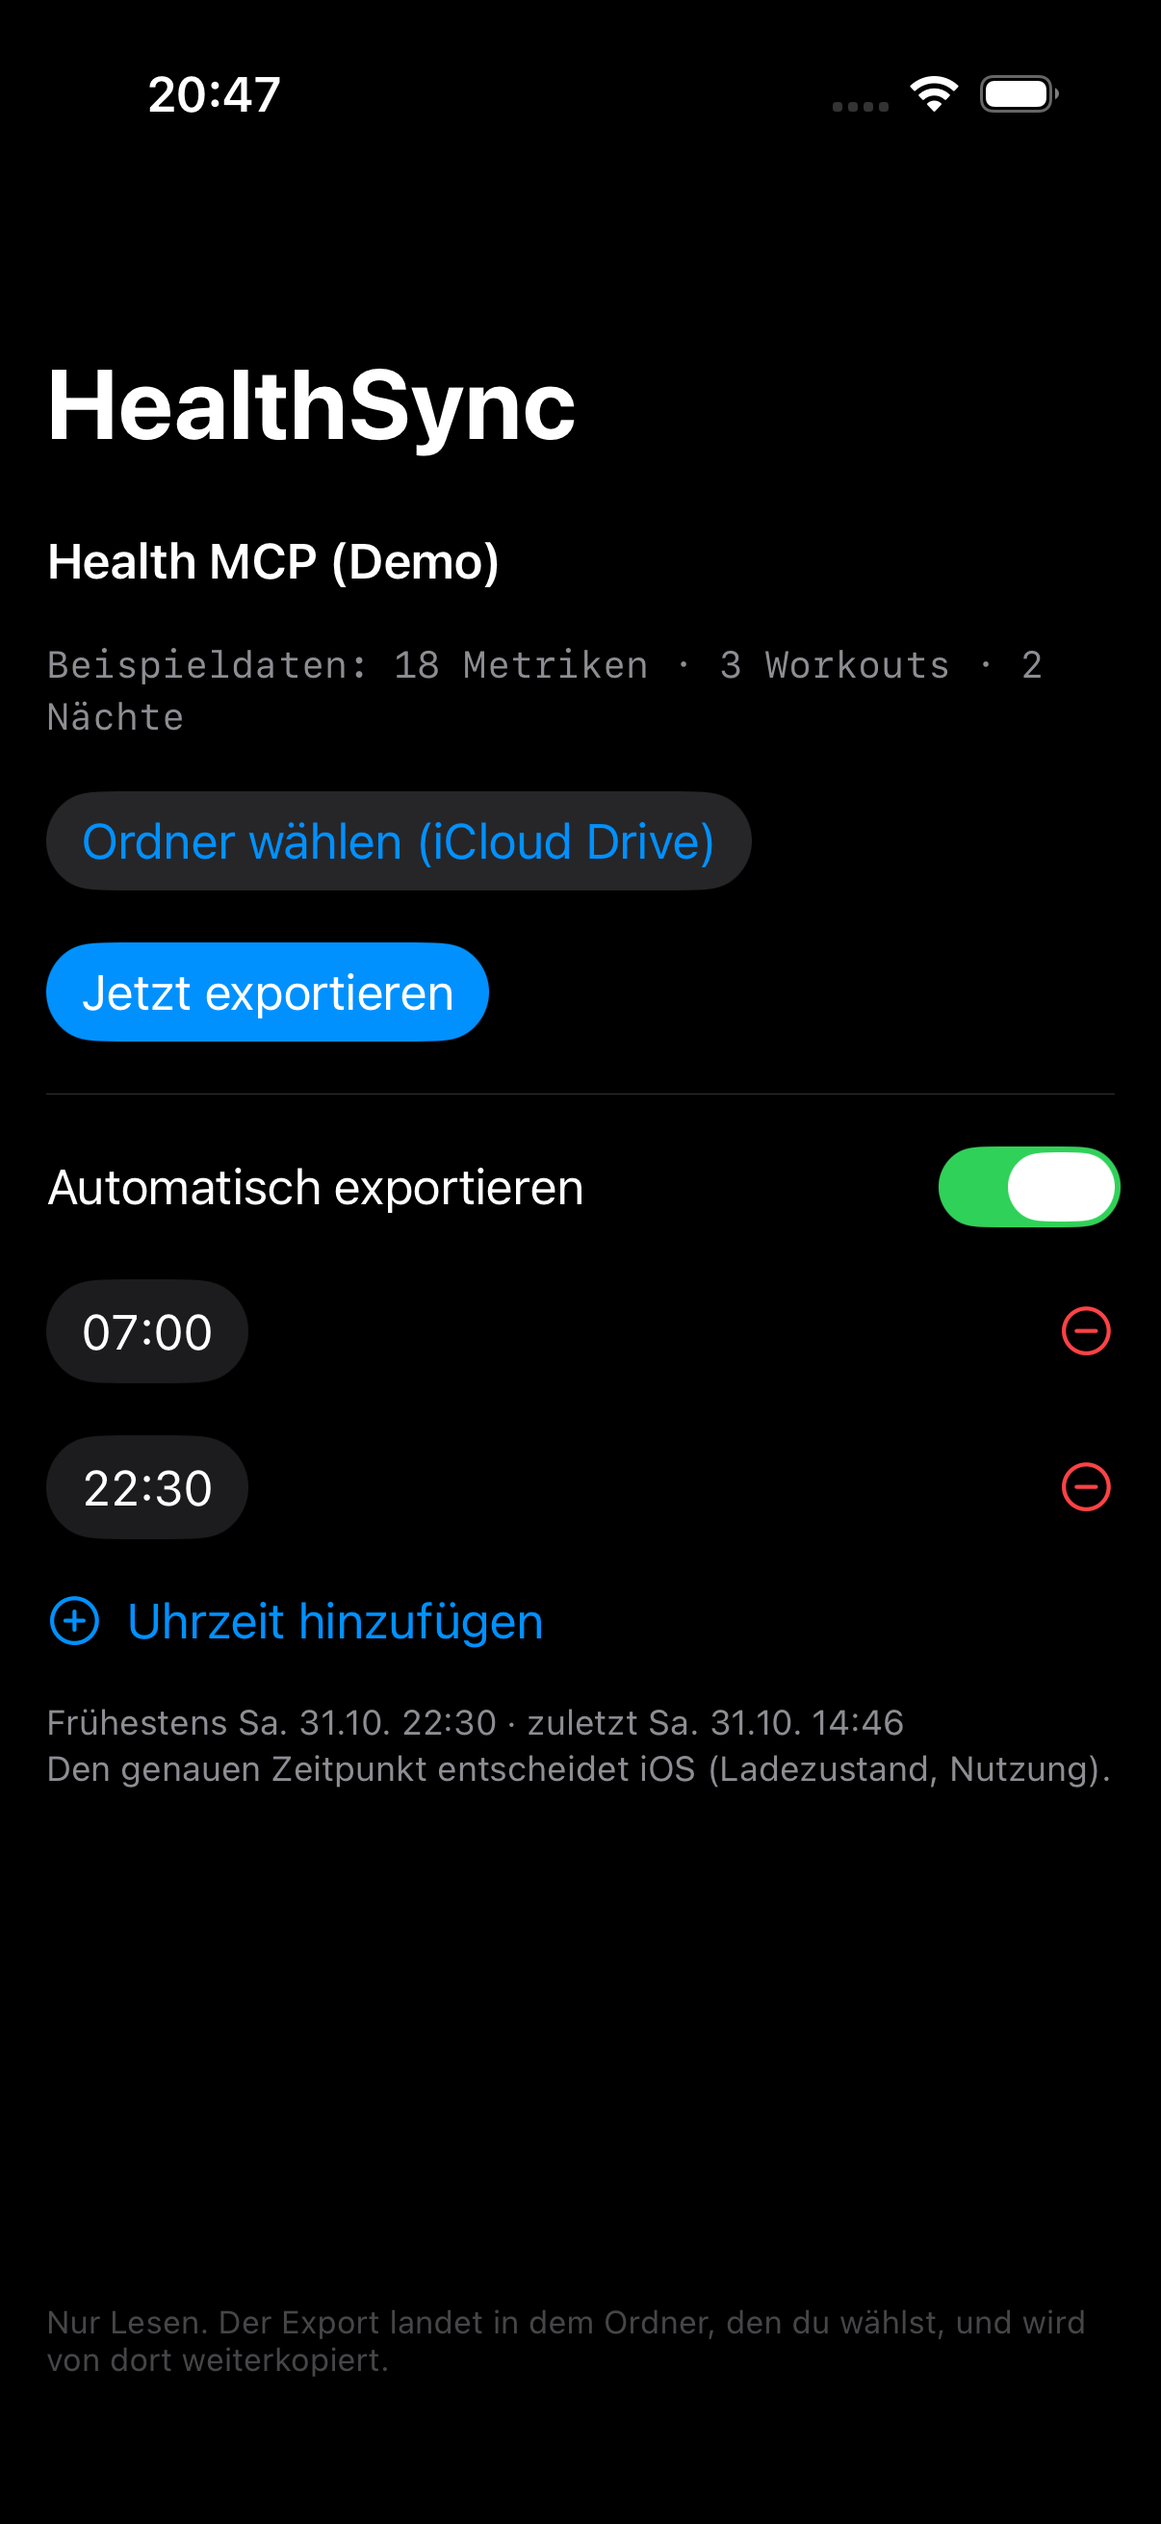
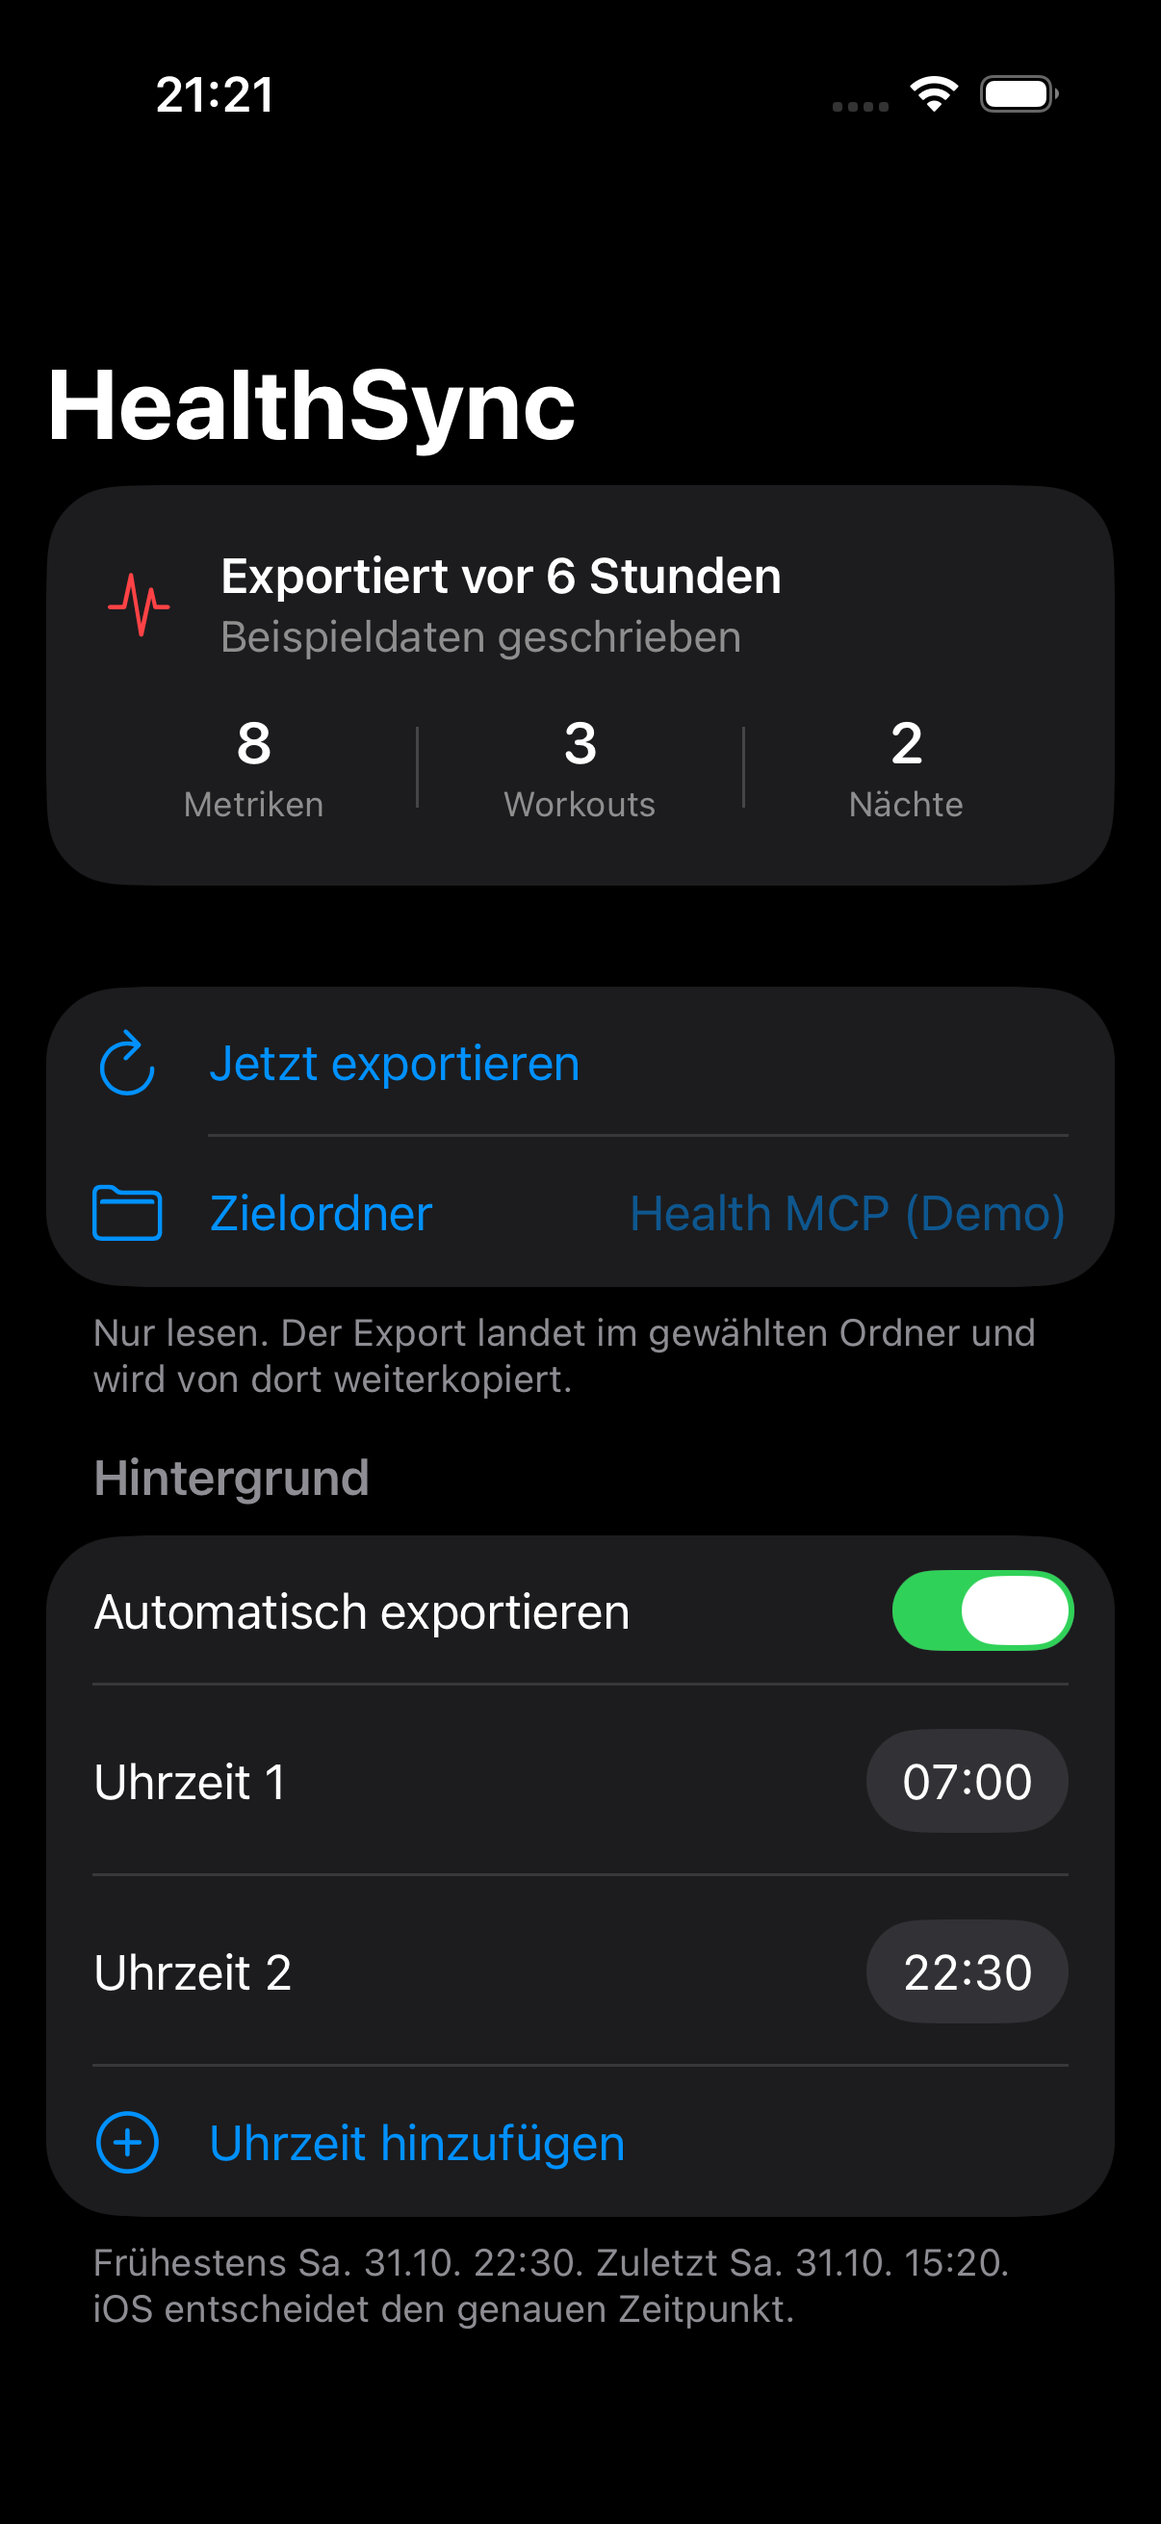
feat: rebuild the screen as a native grouped list
Status card with the counts of the last real export (metrics, workouts, nights),
actions in their own section, schedule rows numbered and swipe-to-delete, the
version comes from project.yml, and a CI job that builds and runs check-ste.py.

diff --git a/HealthSync/HealthSyncApp.swift b/HealthSync/HealthSyncApp.swift
@@ -54,6 +54,12 @@ enum ExportError: LocalizedError {
     }
 }
 
+struct ExportSummary {
+    let metrics: Int
+    let workouts: Int
+    let sessions: Int
+}
+
 struct Exporter {
     let store = HKHealthStore()
     let cal = Calendar.current
@@ -73,7 +79,8 @@ struct Exporter {
         try await store.requestAuthorization(toShare: [], read: readTypes)
     }
 
-    func run(into folder: URL) async throws {
+    @discardableResult
+    func run(into folder: URL) async throws -> ExportSummary {
         let start = cal.startOfDay(for: cal.date(byAdding: .day, value: -LOOKBACK_DAYS, to: Date())!)
         var metrics: [String: Any] = [:]
         for spec in SPECS {
@@ -108,6 +115,9 @@ struct Exporter {
         let workouts = try await workoutRows(from: start)
         UserDefaults.standard.set(Date(), forKey: Schedule.lastRunKey)
         try publish(metrics, workouts, sessions, into: folder)
+        return ExportSummary(metrics: metrics.count - 1,          // _meta is not a metric
+                             workouts: workouts.count,
+                             sessions: (sessions["sessions"] as? [[String: Any]])?.count ?? 0)
     }
 
     // Daily aggregate straight from HealthKit: no per-sample loop, so 2 years costs the same as 2 days.
@@ -424,7 +434,7 @@ extension ISO8601DateFormatter {
 extension Exporter {
     /// Writes a sample cache through the SAME publish() path the real export uses.
     /// Only exists so the writer can be tested where HealthKit cannot run (simulator).
-    func writeSampleCache(into folder: URL) throws {
+    func writeSampleCache(into folder: URL) throws -> ExportSummary {
         let day = { (offset: Int) -> String in
             let d = Calendar.current.date(byAdding: .day, value: -offset, to: Date())!
             return Self.dayKey(d)
@@ -435,20 +445,34 @@ extension Exporter {
         }
         let metrics: [String: Any] = [
             "step_count": series("count", true, [9123, 7455, 10233]),
+            "walking_running_distance": series("km", true, [6.4, 5.1, 7.8]),
+            "active_energy": series("kcal", true, [612, 388, 741]),
+            "heart_rate": series("count/min", false, [72, 68, 75]),
+            "resting_heart_rate": series("count/min", false, [54, 52, 55]),
             "heart_rate_variability": series("ms", false, [57.2, 61.4, 55.9]),
             "blood_oxygen_saturation": series("%", false, [0.97, 0.98, 0.96]),
-            "resting_heart_rate": series("count/min", false, [54, 52, 55]),
+            "vo2_max": series("mL/min/kg", false, [44.1, 44.3, 43.9]),
             "_meta": ["schema": 1, "app": "healthsync-ios-sample",
-                      "requested": SPECS.count, "written": 4,
+                      "requested": SPECS.count, "written": 8,
                       "writtenAt": ISO8601DateFormatter.local.string(from: Date())],
         ]
-        let workouts: [[String: Any]] = [[
-            "id": "sample-1", "name": "Running", "activityType": 37,
-            "start": ISO8601DateFormatter.local.string(from: Date().addingTimeInterval(-7200)),
-            "end": ISO8601DateFormatter.local.string(from: Date().addingTimeInterval(-4500)),
-            "duration": 2700, "activeEnergyBurned": 480, "distanceMeters": 7500,
-            "avgHeartRate": 148, "maxHeartRate": 172,
-        ]]
+        let workouts: [[String: Any]] = [
+            ["id": "sample-1", "name": "Running", "activityType": 37,
+             "start": ISO8601DateFormatter.local.string(from: Date().addingTimeInterval(-7200)),
+             "end": ISO8601DateFormatter.local.string(from: Date().addingTimeInterval(-4500)),
+             "duration": 2700, "activeEnergyBurned": 480, "distanceMeters": 7500,
+             "avgHeartRate": 148, "maxHeartRate": 172],
+            ["id": "sample-2", "name": "Functional Strength Training", "activityType": 20,
+             "start": ISO8601DateFormatter.local.string(from: Date().addingTimeInterval(-90000)),
+             "end": ISO8601DateFormatter.local.string(from: Date().addingTimeInterval(-86400)),
+             "duration": 3600, "activeEnergyBurned": 310,
+             "avgHeartRate": 118, "maxHeartRate": 150],
+            ["id": "sample-3", "name": "Hiking", "activityType": 24,
+             "start": ISO8601DateFormatter.local.string(from: Date().addingTimeInterval(-260000)),
+             "end": ISO8601DateFormatter.local.string(from: Date().addingTimeInterval(-245000)),
+             "duration": 15000, "activeEnergyBurned": 940, "distanceMeters": 11200,
+             "avgHeartRate": 116, "maxHeartRate": 158],
+        ]
         // A sample night that goes through the REAL sessions(from:), so the clustering and the
         // session file's shape are exercised without HealthKit. Two sessions: the gap after the
         // REM block is 1.2 h, past the 1 h threshold.
@@ -475,6 +499,7 @@ extension Exporter {
         }
         try publish(metrics, workouts, ["schema": 1, "writtenAt": ISO8601DateFormatter.local.string(from: Date()),
                                        "sessions": night], into: folder)
+        return ExportSummary(metrics: metrics.count - 1, workouts: workouts.count, sessions: night.count)
     }
 
     private static func sample(_ value: HKCategoryValueSleepAnalysis, startHoursAgo: Double, hours: Double) -> HKCategorySample {
@@ -514,6 +539,8 @@ final class SyncModel: ObservableObject {
     @Published var status = "Noch nicht exportiert"
     @Published var folderName: String?
     @Published var busy = false
+    @Published var summary: ExportSummary?
+    @Published var lastExport: Date? = Schedule.lastRun
 
     let exporter = Exporter()
 
@@ -569,7 +596,8 @@ final class SyncModel: ObservableObject {
             status = "Exportiere…"
             let scoped = folder.startAccessingSecurityScopedResource()
             defer { if scoped { folder.stopAccessingSecurityScopedResource() } }
-            try await exporter.run(into: folder)
+            summary = try await exporter.run(into: folder)
+            lastExport = Date()
             status = "Fertig · \(Self.stamp())"
             log("export ok -> \(folder.path)")
         } catch {
@@ -612,74 +640,125 @@ struct ContentView: View {
         Background.schedule()
     }
 
-    private var scheduleText: String {
-        guard autoOn else { return "Aus — es exportiert nur, wenn du die App öffnest." }
+    private var statusTitle: String {
+        if model.busy { return "Export läuft" }
+        guard let when = model.lastExport else { return "Noch kein Export" }
+        let f = RelativeDateTimeFormatter()
+        f.unitsStyle = .full
+        return "Exportiert " + f.localizedString(for: when, relativeTo: Date())
+    }
+
+    private var scheduleFooter: String {
+        guard autoOn else { return "Aus. Der Export startet nur, wenn du die App öffnest." }
         let f = DateFormatter()
         f.dateFormat = "EE dd.MM. HH:mm"
         let next = f.string(from: Schedule.nextFire(after: Date(), times: Schedule.times))
         let last = Schedule.lastRun.map { f.string(from: $0) } ?? "noch nie"
-        return "Frühestens \(next) · zuletzt \(last)\nDen genauen Zeitpunkt entscheidet iOS (Ladezustand, Nutzung)."
+        return "Frühestens \(next). Zuletzt \(last). iOS entscheidet den genauen Zeitpunkt."
+    }
+
+    private func stat(_ title: String, _ value: String) -> some View {
+        VStack(spacing: 2) {
+            Text(value)
+                .font(.system(.title3, design: .rounded).weight(.semibold))
+                .monospacedDigit()
+            Text(title)
+                .font(.caption)
+                .foregroundStyle(.secondary)
+        }
+        .frame(maxWidth: .infinity)
+    }
+
+    private var rule: some View {
+        Rectangle()
+            .fill(.quaternary)
+            .frame(width: 1, height: 28)
     }
 
     var body: some View {
         NavigationStack {
-            VStack(alignment: .leading, spacing: 18) {
-                Text(model.folderName ?? "Kein Ordner gewählt")
-                    .font(.headline)
-                    .foregroundStyle(model.folderName == nil ? .secondary : .primary)
-                Text(model.status)
-                    .font(.footnote.monospaced())
-                    .foregroundStyle(.secondary)
-
-                Button("Ordner wählen (iCloud Drive)") { picking = true }
-                    .buttonStyle(.bordered)
-
-                Button {
-                    Task { await model.exportNow() }
-                } label: {
-                    if model.busy { ProgressView() } else { Text("Jetzt exportieren") }
-                }
-                .buttonStyle(.borderedProminent)
-                .disabled(model.busy)
-
-                Divider()
-
-                Toggle("Automatisch exportieren", isOn: $autoOn)
-                    .onChange(of: autoOn) { _, _ in Background.schedule() }
-                if autoOn {
-                    ForEach(times, id: \.self) { value in
-                        HStack {
-                            DatePicker("Uhrzeit", selection: binding(for: value), displayedComponents: .hourAndMinute)
-                                .labelsHidden()
-                            Spacer()
-                            Button(role: .destructive) {
-                                times.removeAll { $0 == value }
-                                save()
-                            } label: {
-                                Image(systemName: "minus.circle")
+            List {
+                Section {
+                    VStack(alignment: .leading, spacing: 16) {
+                        HStack(alignment: .center, spacing: 12) {
+                            Image(systemName: "waveform.path.ecg")
+                                .font(.title2)
+                                .foregroundStyle(.red)
+                                .frame(width: 32)
+                            VStack(alignment: .leading, spacing: 2) {
+                                Text(statusTitle)
+                                    .font(.headline)
+                                Text(model.status)
+                                    .font(.subheadline)
+                                    .foregroundStyle(.secondary)
+                                    .lineLimit(2)
                             }
-                            .disabled(times.count == 1)
+                            Spacer()
+                            if model.busy { ProgressView() }
+                        }
+                        HStack(spacing: 0) {
+                            stat("Metriken", model.summary.map { "\($0.metrics)" } ?? "—")
+                            rule
+                            stat("Workouts", model.summary.map { "\($0.workouts)" } ?? "—")
+                            rule
+                            stat("Nächte", model.summary.map { "\($0.sessions)" } ?? "—")
                         }
                     }
-                    Button {
-                        // first full hour nobody claimed, so the new row is never a duplicate
-                        let used = Set(times.map { $0 / 60 })
-                        times.append(((0..<24).first { !used.contains($0) } ?? 12) * 60)
-                        save()
-                    } label: {
-                        Label("Uhrzeit hinzufügen", systemImage: "plus.circle")
-                    }
+                    .padding(.vertical, 6)
                 }
-                Text(scheduleText)
-                    .font(.caption)
-                    .foregroundStyle(.secondary)
 
-                Spacer()
-                Text("Nur Lesen. Der Export landet in dem Ordner, den du wählst, und wird von dort weiterkopiert.")
-                    .font(.caption2)
-                    .foregroundStyle(.tertiary)
+                Section {
+                    Button {
+                        Task { await model.exportNow() }
+                    } label: {
+                        Label("Jetzt exportieren", systemImage: "arrow.clockwise")
+                    }
+                    .disabled(model.busy)
+
+                    Button {
+                        picking = true
+                    } label: {
+                        HStack {
+                            Label("Zielordner", systemImage: "folder")
+                            Spacer()
+                            Text(model.folderName ?? "Wählen")
+                                .foregroundStyle(.secondary)
+                        }
+                    }
+                } footer: {
+                    Text("Nur lesen. Der Export landet im gewählten Ordner und wird von dort weiterkopiert.")
+                }
+
+                Section {
+                    Toggle("Automatisch exportieren", isOn: $autoOn)
+                        .onChange(of: autoOn) { _, _ in Background.schedule() }
+                    if autoOn {
+                        ForEach(Array(times.enumerated()), id: \.element) { index, value in
+                            DatePicker("Uhrzeit \(index + 1)", selection: binding(for: value),
+                                       displayedComponents: .hourAndMinute)
+                        }
+                        .onDelete { offsets in
+                            guard times.count > offsets.count else { return }   // keep one slot
+                            times.remove(atOffsets: offsets)
+                            save()
+                        }
+                        Button {
+                            // first full hour nobody claimed, so the new row is never a duplicate
+                            let used = Set(times.map { $0 / 60 })
+                            times.append(((0..<24).first { !used.contains($0) } ?? 12) * 60)
+                            save()
+                        } label: {
+                            Label("Uhrzeit hinzufügen", systemImage: "plus.circle")
+                        }
+                    }
+                } header: {
+                    Text("Hintergrund")
+                } footer: {
+                    Text(scheduleFooter)
+                }
+
             }
-            .padding()
+            .listStyle(.insetGrouped)
             .navigationTitle("HealthSync")
             .fileImporter(isPresented: $picking, allowedContentTypes: [.folder]) { result in
                 if case .success(let url) = result { model.setFolder(url) }
@@ -690,16 +769,18 @@ struct ContentView: View {
                 if CommandLine.arguments.contains("-seed") {
                     let docs = FileManager.default.urls(for: .documentDirectory, in: .userDomainMask)[0]
                     do {
-                        try Exporter().writeSampleCache(into: docs)
+                        let summary = try Exporter().writeSampleCache(into: docs)
                         // ponytail: DEBUG-only fixture so the screenshots show a configured app
                         let demo = docs.appendingPathComponent("Health MCP (Demo)", isDirectory: true)
                         try? FileManager.default.createDirectory(at: demo, withIntermediateDirectories: true)
                         try? FolderStore.save(demo)
                         model.folderName = demo.lastPathComponent
+                        model.summary = summary
+                        model.lastExport = Date().addingTimeInterval(-6 * 3600)
                         Schedule.times = [7 * 60, 22 * 60 + 30]
                         times = Schedule.times          // @State was built before the seed ran
-                        UserDefaults.standard.set(Date().addingTimeInterval(-6 * 3600), forKey: Schedule.lastRunKey)
-                        model.status = "Beispieldaten: 18 Metriken · 3 Workouts · 2 Nächte"
+                        UserDefaults.standard.set(model.lastExport, forKey: Schedule.lastRunKey)
+                        model.status = "Beispieldaten geschrieben"
                         model.log("seed: \(docs.path)")
                     } catch { model.status = "Seeder: \(error.localizedDescription)" }
                     return

diff --git a/README.md b/README.md
@@ -2,6 +2,8 @@
 
 # HealthSync
 
+[![CI](https://github.com/HanSur94/health-sync-ios/actions/workflows/ci.yml/badge.svg)](https://github.com/HanSur94/health-sync-ios/actions/workflows/ci.yml)
+
 HealthSync is a small app for iOS. It reads Apple Health and writes three JSON files into a folder
 that you select. Point a reader at these files. Then you have your own health data pipeline. You
 need no subscription and no cloud account.
